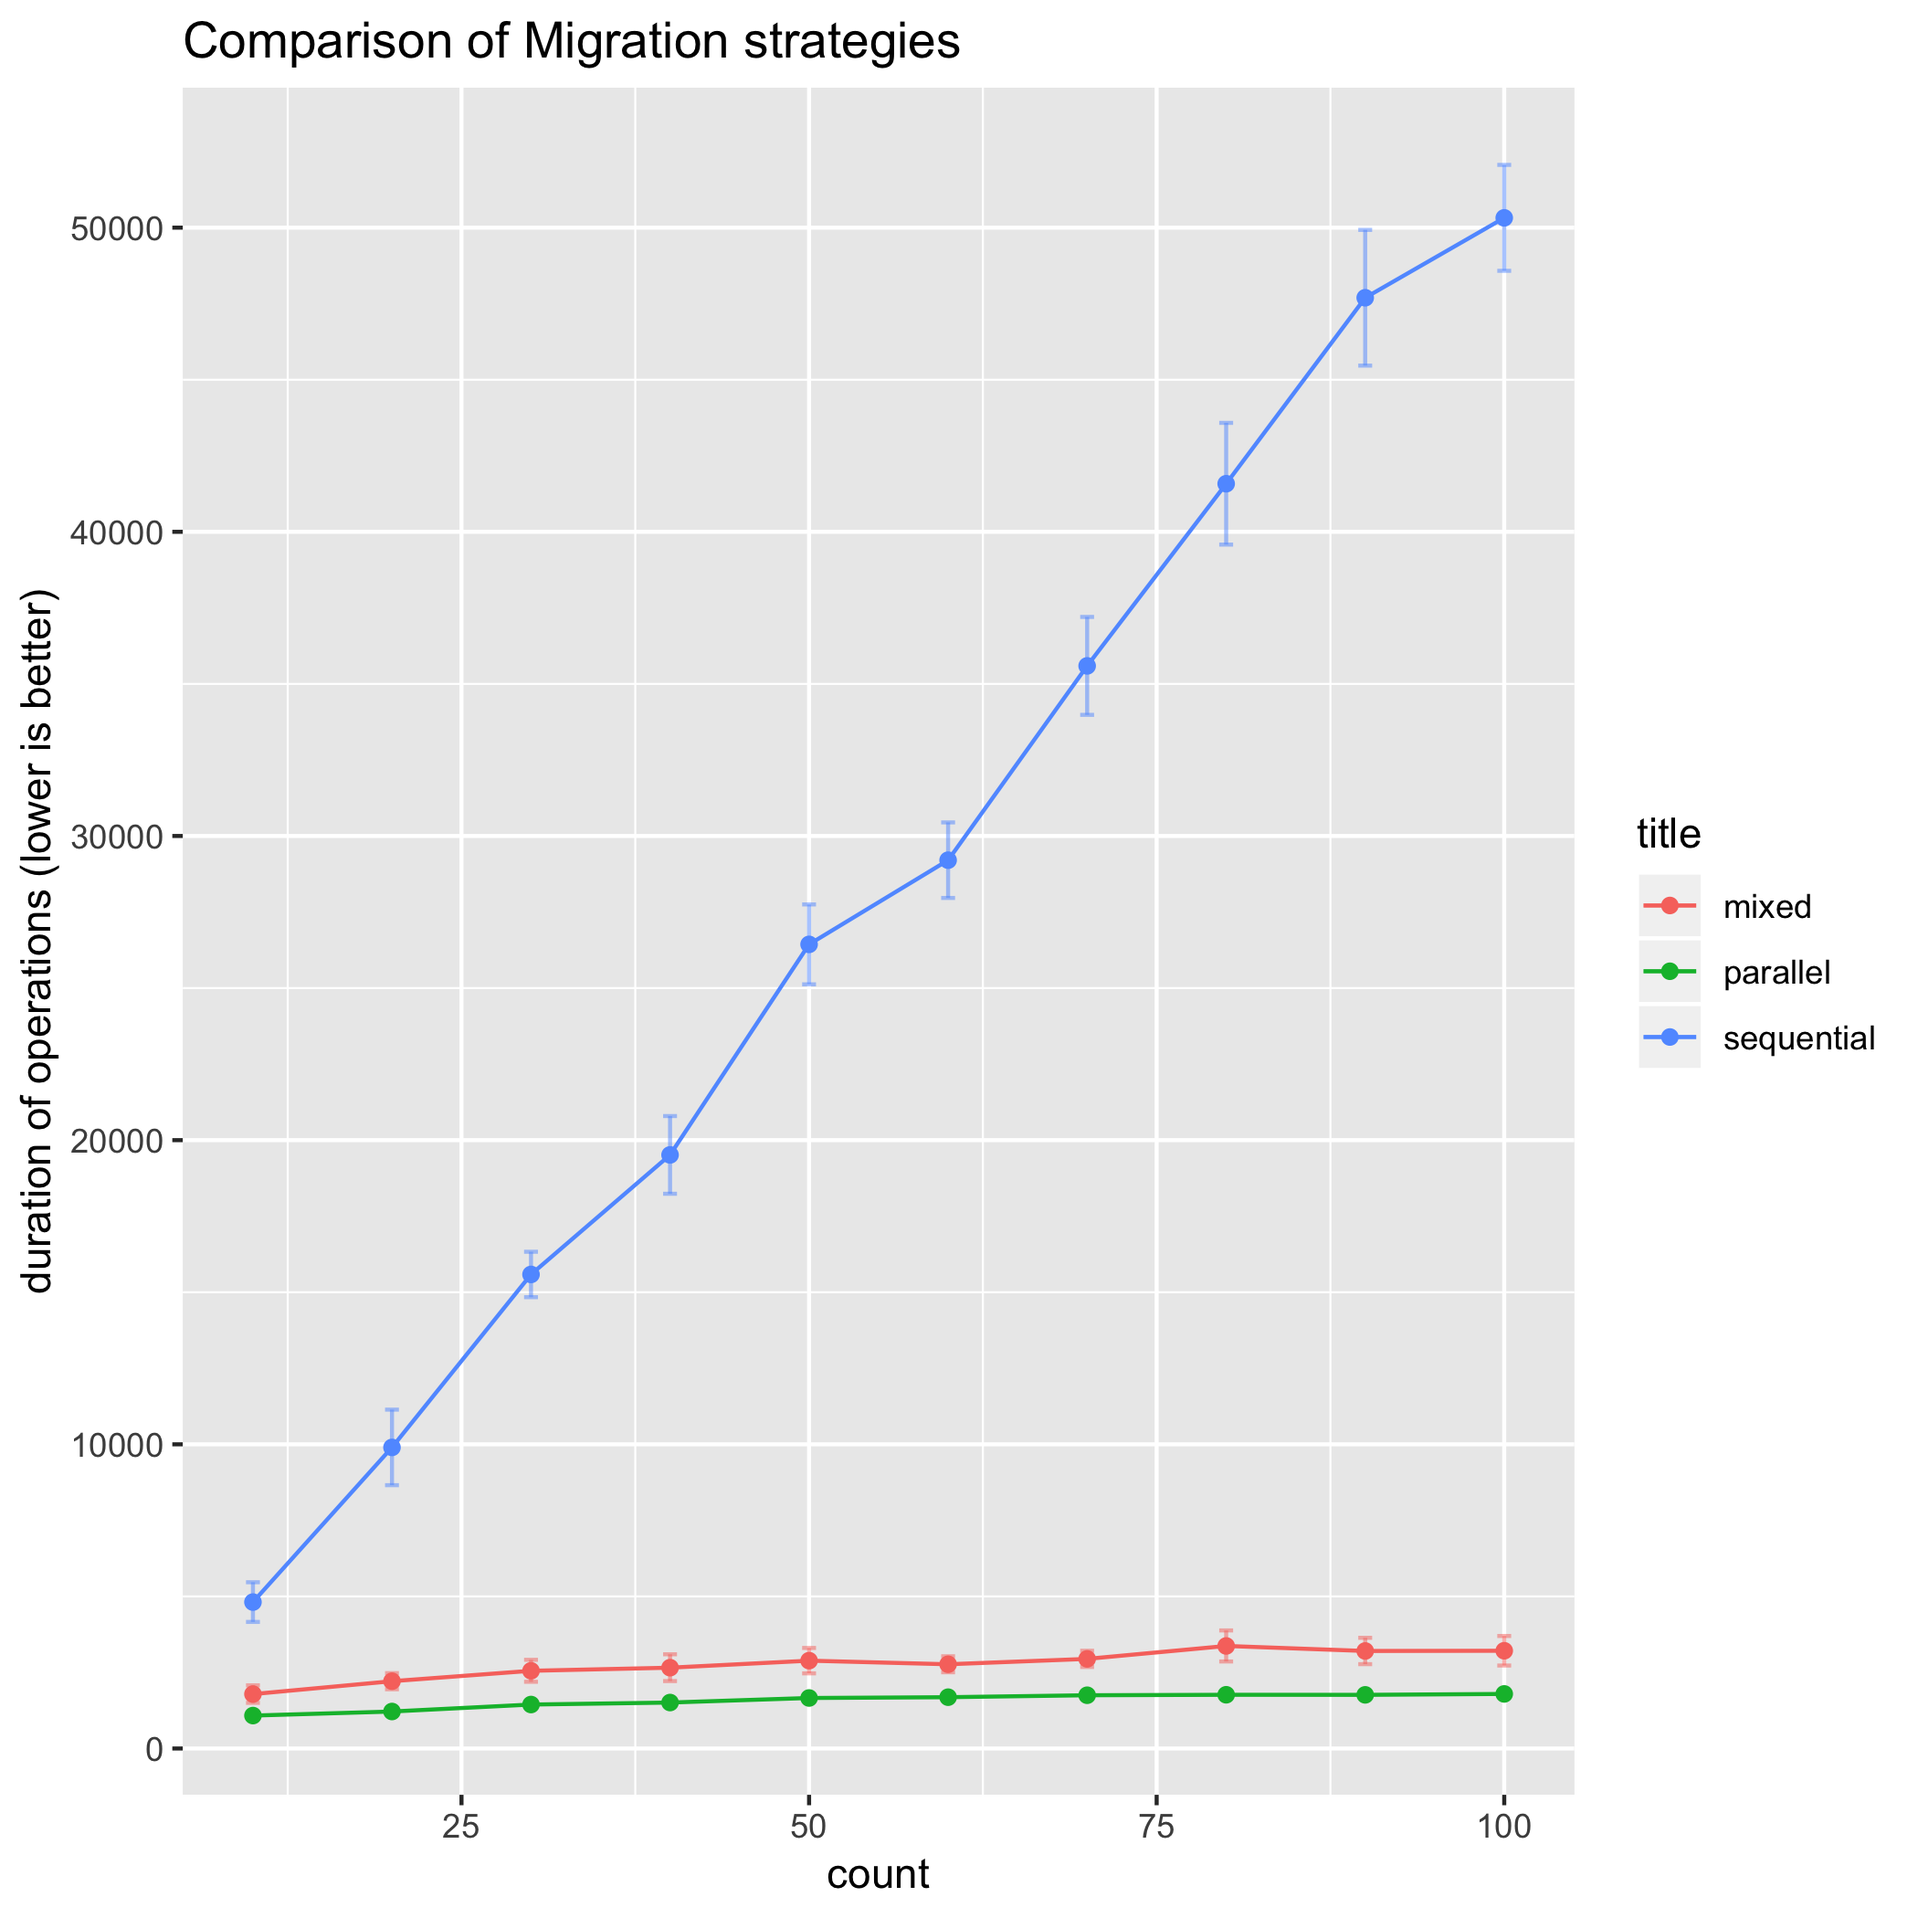
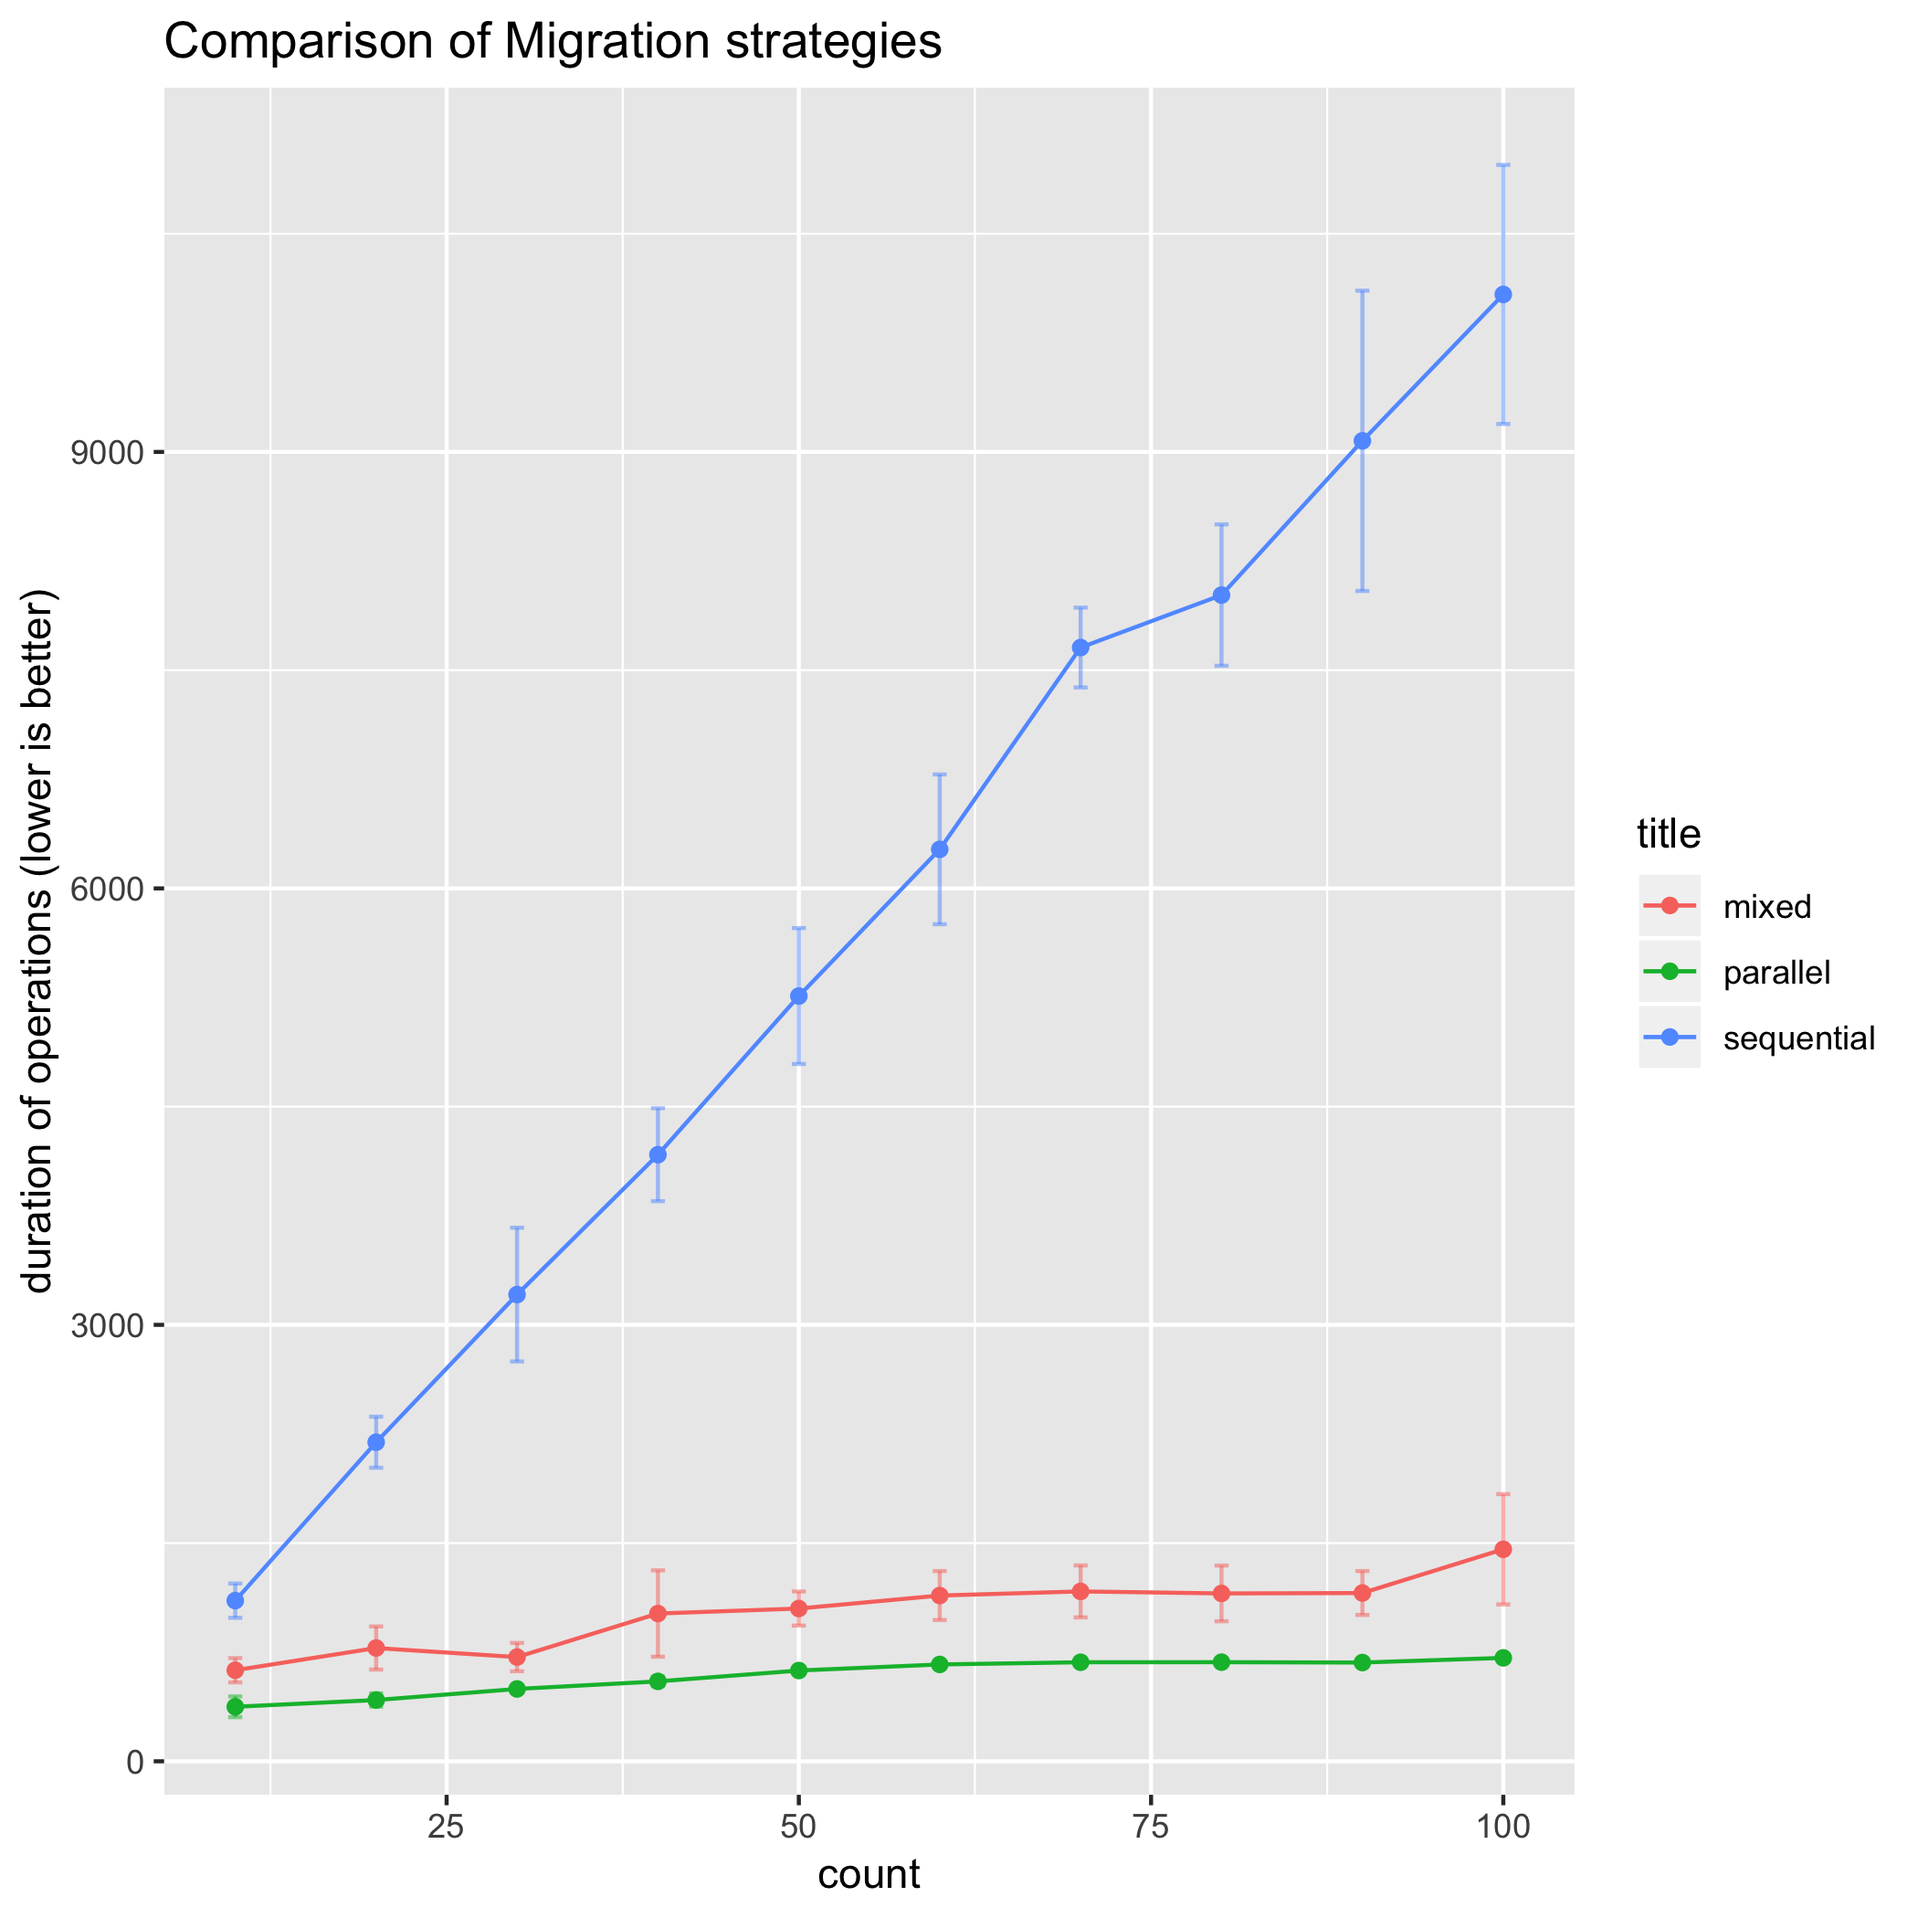
Reduced amount of data points with nearly same result

diff --git a/src/__benchmark__/Migrator/MigrateMixed.ts b/src/__benchmark__/Migrator/MigrateMixed.ts
@@ -4,7 +4,7 @@ export class MigrateMixed extends Migrate {
   async setup(count: number) {
     await super.setup(count);
     Array.from({ length: count }).forEach((_, i) => {
-      const parent = i % 2 === 0 ? [] : Array.from({ length: i % 3 }).map(
+      const parent = i % 2 === 0 ? [] : Array.from({ length: 2 }).map(
         () => this.migrations[~~(Math.random() * this.migrations.length)].key,
       );
       this.migrations.push({ ...this.migration, parent });

diff --git a/src/__benchmark__/Migrator/Migrate.ts b/src/__benchmark__/Migrator/Migrate.ts
@@ -13,7 +13,7 @@ export class Migrate extends Benchmark {
         () => {
           resolve();
         },
-        ~~(Math.random() * 1000),
+        ~~(Math.random() * 200),
       );
     });
   }

diff --git a/src/__benchmark__/Migrator/index.ts b/src/__benchmark__/Migrator/index.ts
@@ -10,4 +10,4 @@ const compareMigrate = new Compare({
   parallel: MigrateParallel,
 });
 
-compareMigrate.run(10, 100, 10, 10);
+compareMigrate.run(10, 100, 10, 5);
